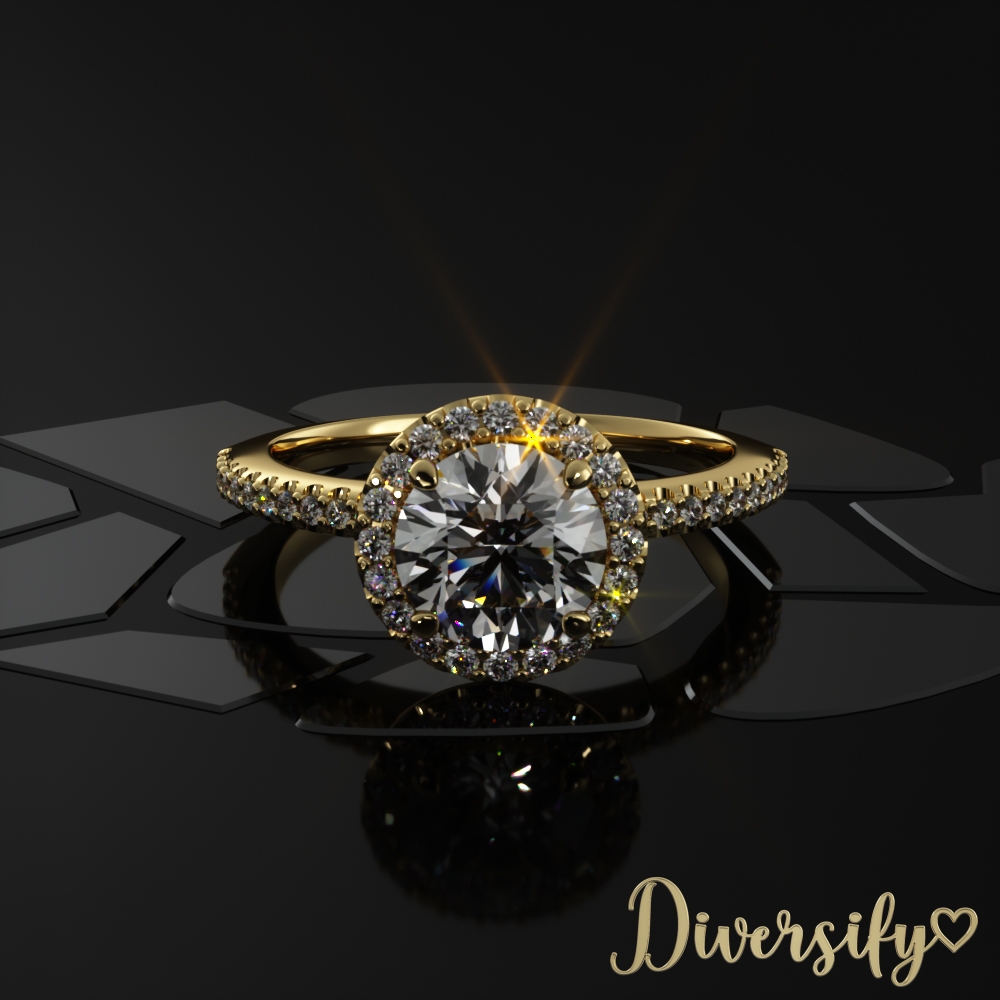
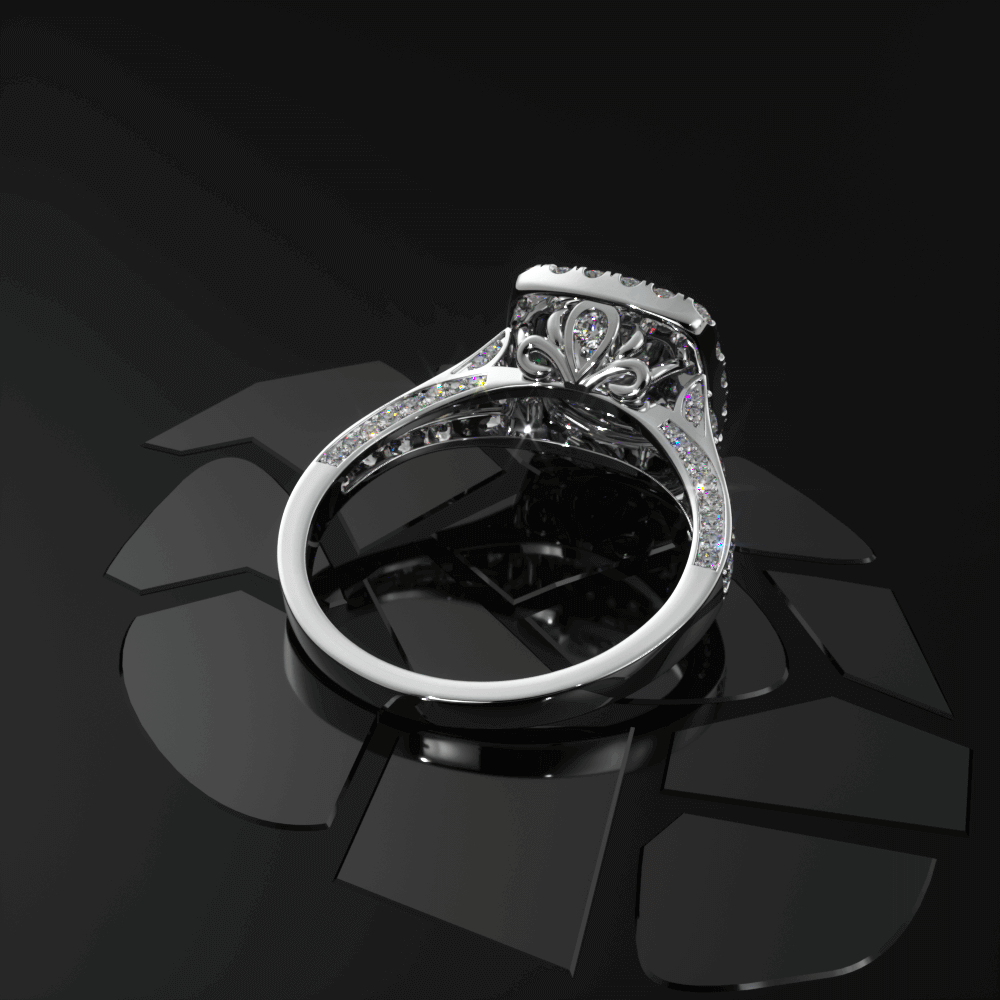
update website with new nft images

Changed region(s): [[0.0, 0.248, 0.992, 0.992], [0.837, 0.496, 0.93, 0.558], [0.93, 0.558, 0.961, 0.589]]

diff --git a/src/pages/Home/index.tsx b/src/pages/Home/index.tsx
@@ -17,12 +17,12 @@ import TeamImage2 from "../../assets/images/team2.png";
 import TeamImage3 from "../../assets/images/team3.png";
 import VideoPlayer from "../../components/common/VideoPlayer";
 import NftCarousel from "../../components/NftCarousel";
-import NftImage from "../../assets/images/nfts/nft7.png";
+import MainCarousel from "../../components/MainCarousel";
 const Video1 = require("../../assets/videos/video1.mp4");
 const Video2 = require("../../assets/videos/video2.mp4");
 
 const Home = () => {
-  const videos = [{ src: Video1 }, { src: Video2 } ];
+  const videos = [{ src: Video1 }, { src: Video2 }];
 
   const teams = [
     {
@@ -135,11 +135,7 @@ const Home = () => {
                     "d-md-block",
                   ]}
                 >
-                  <Image
-                    cssClasses={["rounded", "ps-md-4"]}
-                    width="100%"
-                    src={NftImage}
-                  />
+                  <MainCarousel />
                 </Box>
               </Flex>
               <Box cssClasses={["section-pad-top"]}>

diff --git a/src/components/MainCarousel.tsx b/src/components/MainCarousel.tsx
@@ -1,0 +1,34 @@
+import Slider from "react-slick";
+import NFT1 from "../assets/images/nfts/main1.png";
+import NFT2 from "../assets/images/nfts/main2.png";
+import Image from "./common/Image";
+
+const MainCarousel = () => {
+  const images = [NFT1, NFT2];
+
+  const settings = {
+    className: "center",
+    centerMode: true,
+    infinite: true,
+    dots: false,
+    arrows: false,
+    autoplay: true,
+    autoplaySpeed: 10000,
+    slidesToShow: 1,
+    centerPadding: "0",
+    swipeToSlide: true,
+    focusOnSelect: true,
+  };
+
+  return (
+    <div className="container">
+      <Slider {...settings}>
+        {images.map((image, index) => (
+          <Image cssClasses={["container"]} src={image} key={index} />
+        ))}
+      </Slider>
+    </div>
+  );
+};
+
+export default MainCarousel;

diff --git a/src/components/NftCarousel.tsx b/src/components/NftCarousel.tsx
@@ -8,7 +8,7 @@ import NFT5 from "../assets/images/nfts/nft5.png";
 import NFT6 from "../assets/images/nfts/nft6.png";
 import NFT7 from "../assets/images/nfts/nft7.png";
 import NFT8 from "../assets/images/nfts/nft8.png";
-import Image from "./common/Image";
+import Art from "./Art";
 
 const NftCarousel = () => {
   const images = [NFT1, NFT2, NFT3, NFT4, NFT5, NFT6, NFT7, NFT8];
@@ -44,7 +44,7 @@ const NftCarousel = () => {
       return (
         <div className={idx === imageIndex ? "activeSlide" : "slide"} key={idx}>
           <div className="slideWrapper">
-            <Image cssClasses={["container"]} src={image} />
+            <Art src={image} />
           </div>
         </div>
       );

diff --git a/src/components/Art.tsx b/src/components/Art.tsx
@@ -1,10 +1,10 @@
 import Box from "./common/Box";
 import Image from "./common/Image";
 
-const Art = ({ art }: { art: any }) => {
+const Art = ({ src }: { src: any }) => {
   return (
     <Box cssClasses={["container", "p-sm-4"]}>
-      <Image src={art.img} width="100%" />
+      <Image src={src} width="100%" cssClasses={["nft-art"]} />
     </Box>
   );
 };

diff --git a/src/assets/styles/teambox.css b/src/assets/styles/teambox.css
@@ -20,7 +20,7 @@
   background-image: url("../images/nft-overlay.png");
   background-repeat: no-repeat;
   background-size: 100%;
-  padding-bottom: 50px;
+  padding-bottom: 40px;
 }
 
 .blog-description {

diff --git a/src/assets/styles/slider.css b/src/assets/styles/slider.css
@@ -36,7 +36,7 @@
 .slide {
   transform: scale(0.7);
   transition: transform 0.5s;
-  opacity: 0.7;
+  opacity: 0.6;
 }
 
 .activeSlide {
